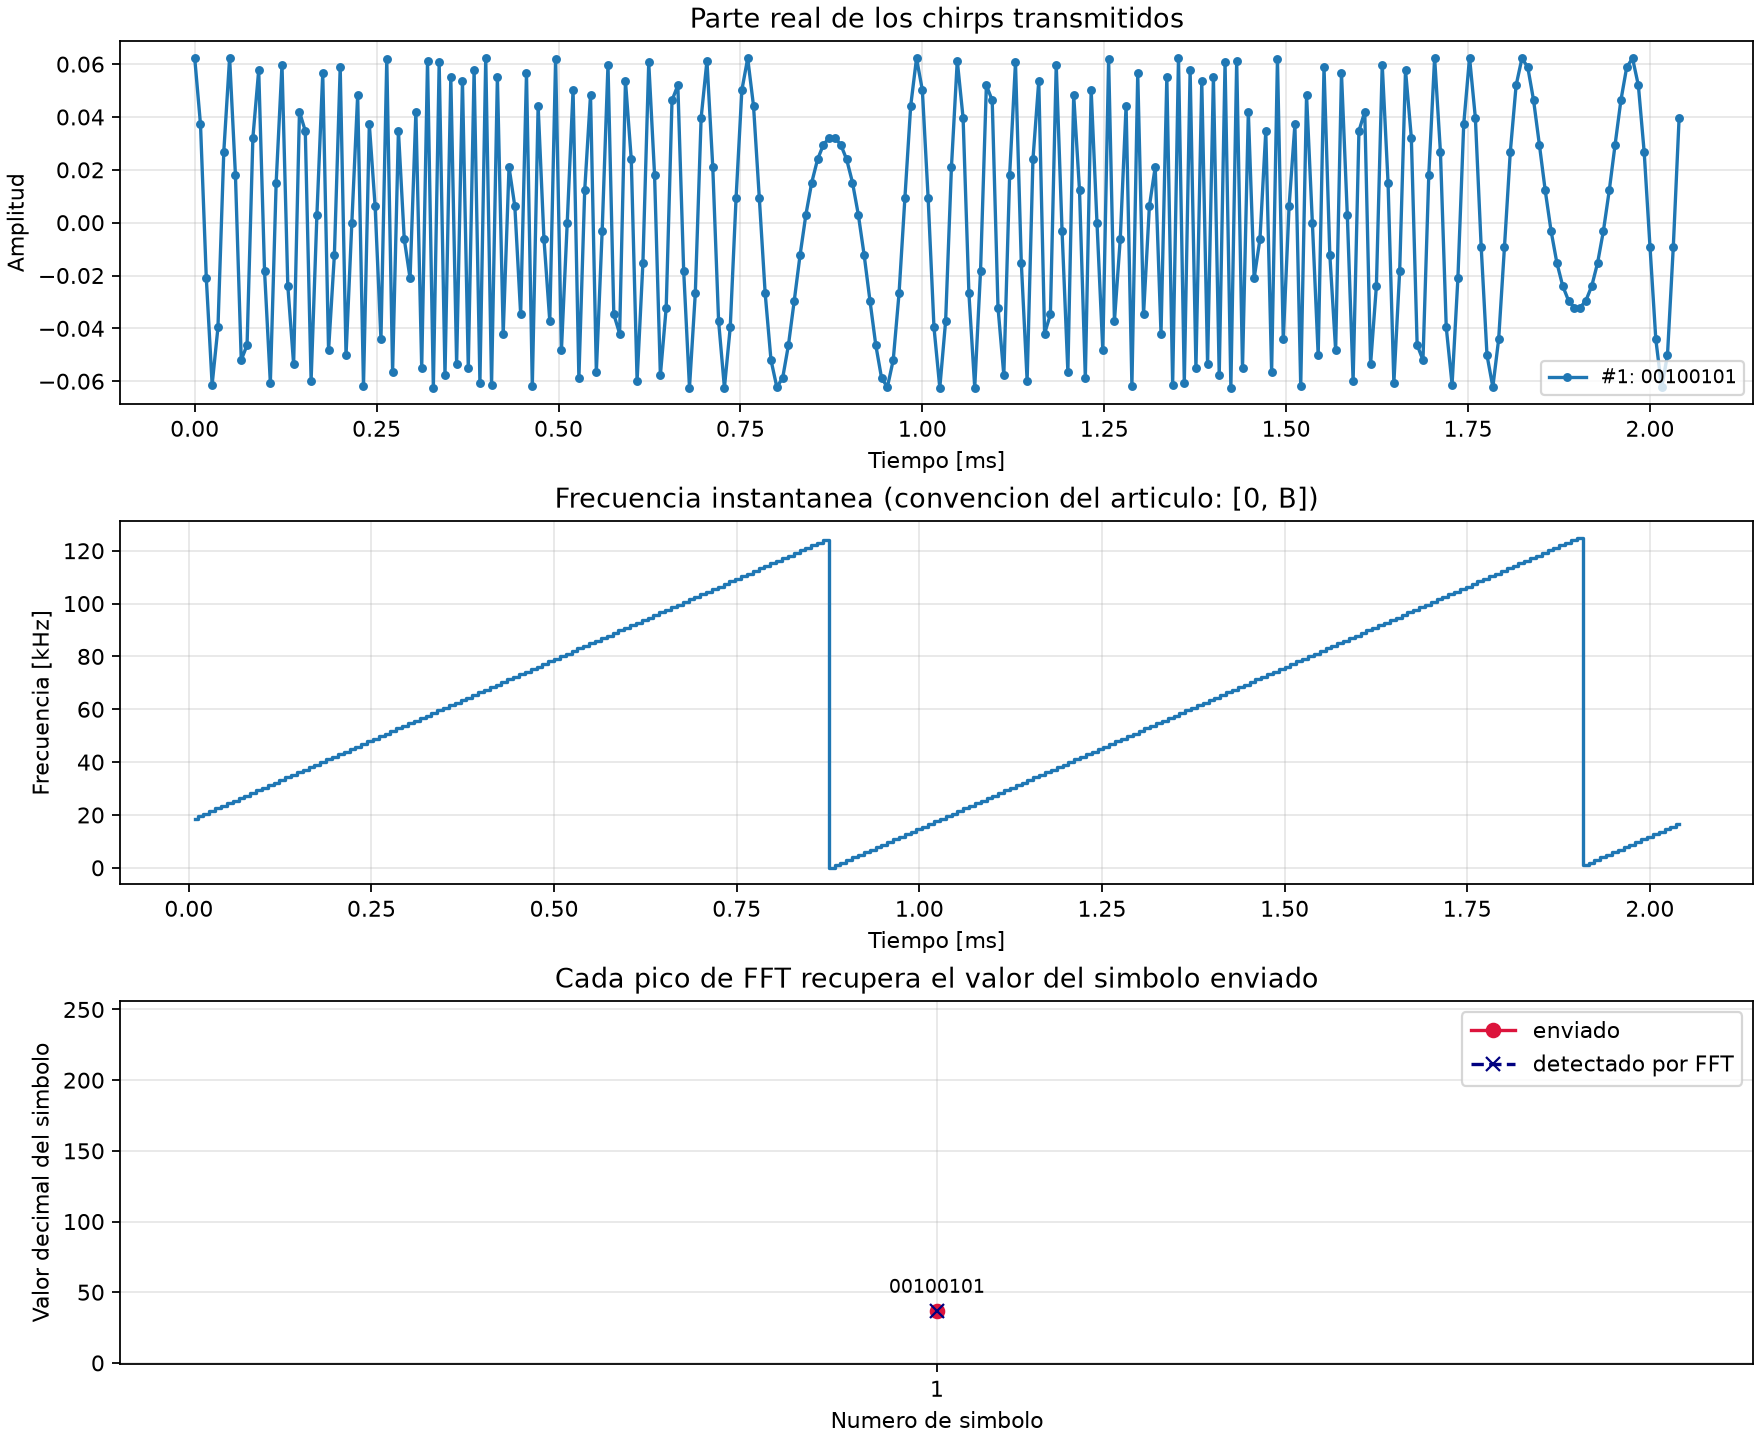
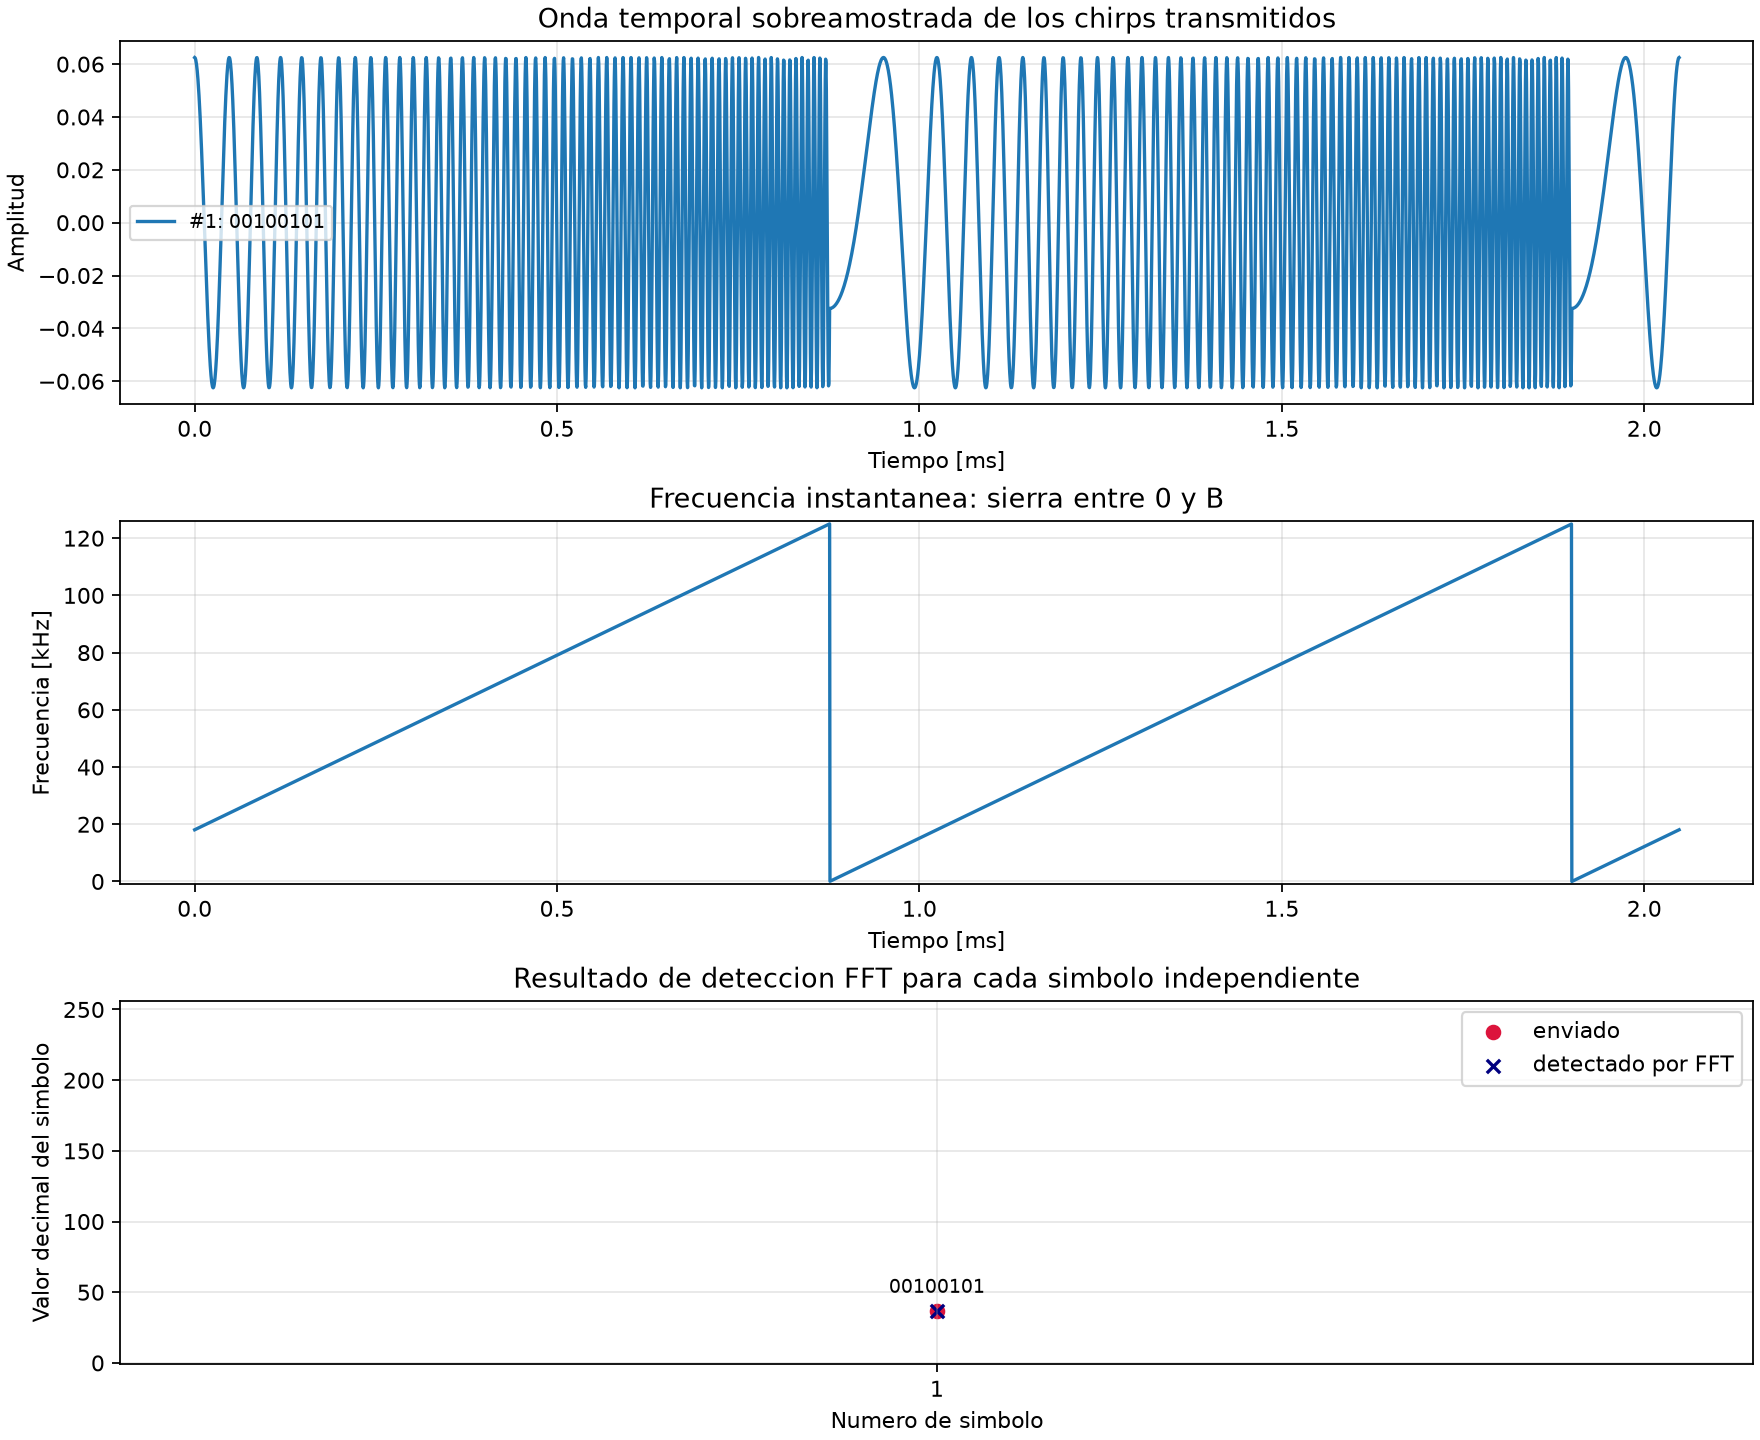
tp1: onda en tiempo sigue frecuencia en forma de sierra

diff --git a/simulacion_lora_chirp.py b/simulacion_lora_chirp.py
@@ -12,6 +12,7 @@ import numpy as np
 
 B = 125_000  # ancho de banda [Hz]
 MAX_SIMBOLOS = 5
+MUESTRAS_POR_MUESTRA = 16  # solo para dibujar suavemente la onda temporal
 
 
 def validar_simbolos(simbolos):
@@ -29,69 +30,91 @@ def validar_simbolos(simbolos):
     return sf
 
 
+def fase_sierra(tiempo, valor, N):
+    """Fase continua cuya derivada es la sierra de frecuencia del chirp."""
+    # En un simbolo Ts=N/B, 2*B*Ts=2*N: la sierra recorre dos veces los N bins.
+    indice = valor + 2 * B * tiempo
+    ciclos_completos = np.floor(indice / N)
+    resto = np.mod(indice, N)
+    area_de_sierra = (ciclos_completos * N**2 + resto**2) / 2
+    return (area_de_sierra - valor**2 / 2) / (2 * N)
+
+
+def modular_simbolo(valor, k, N):
+    """Genera las muestras LoRa y una vista temporal sobreamostrada de la sierra."""
+    # Ecuacion (3) del articulo: forma discreta usada por el modulador y la FFT.
+    fase_discreta = ((valor + k) % N) * k / N
+    chirp = np.exp(1j * 2 * np.pi * fase_discreta) / np.sqrt(N)
+
+    Ts = N / B
+    tiempo_vista = np.linspace(0, Ts, N * MUESTRAS_POR_MUESTRA + 1)
+    # La pendiente 2*B/N viene de Delta(fase)=(valor+2*k+1)/N entre muestras.
+    frecuencia_vista = np.mod(valor + 2 * B * tiempo_vista, N) * B / N
+    onda_vista = np.cos(2 * np.pi * fase_sierra(tiempo_vista, valor, N)) / np.sqrt(N)
+    return chirp, tiempo_vista, onda_vista, frecuencia_vista
+
+
 def simular_lora(simbolos):
     """Modula y detecta una lista de 1 a 5 simbolos binarios de igual longitud."""
     sf = validar_simbolos(simbolos)
     N = 2**sf
-    fs = B  # una muestra cada T = 1/B, como en el articulo
     Ts = N / B
-    k = np.arange(N) # {1, 2, ..., 255}
+    k = np.arange(N)
     downchirp = np.exp(-1j * 2 * np.pi * k**2 / N)
 
     valores_enviados = [int(bits, 2) for bits in simbolos]
     valores_estimados = []
     chirps = []
+    vistas = []
 
     for valor in valores_enviados:
-        # Ecuacion (2): c[k] = 1/sqrt(N) exp(j 2pi ((s+k) mod N) k / N).
-        chirp = np.exp(1j * 2 * np.pi * ((valor + k) % N) * k / N) / np.sqrt(N)
+        chirp, tiempo_vista, onda_vista, frecuencia_vista = modular_simbolo(valor, k, N)
         chirps.append(chirp)
+        vistas.append((tiempo_vista, onda_vista, frecuencia_vista))
 
         # Ecuacion (16): dechirp y FFT. El bin del maximo es el simbolo recibido.
         espectro = np.abs(np.fft.fft(chirp * downchirp))
         valores_estimados.append(int(np.argmax(espectro)))
 
     assert valores_estimados == valores_enviados
-    _graficar(chirps, simbolos, valores_enviados, valores_estimados, k, fs, Ts, N)
+    _graficar(vistas, simbolos, valores_enviados, valores_estimados, Ts, N)
     return valores_estimados
 
 
-def _graficar(chirps, simbolos, enviados, estimados, k, fs, Ts, N):
+def _graficar(vistas, simbolos, enviados, estimados, Ts, N):
     fig, axes = plt.subplots(3, 1, figsize=(11, 9), constrained_layout=True)
 
-    for indice, (chirp, bits) in enumerate(zip(chirps, simbolos)):
-        tiempo = indice * Ts + k / fs
+    for indice, ((tiempo, onda, frecuencia), bits) in enumerate(zip(vistas, simbolos)):
+        tiempo = indice * Ts + tiempo
         etiqueta = f"#{indice + 1}: {bits}"
-        axes[0].plot(tiempo * 1e3, chirp.real, marker=".", label=etiqueta)
+        axes[0].plot(tiempo * 1e3, onda, label=etiqueta)
+        axes[1].plot(tiempo * 1e3, frecuencia / 1e3, label=etiqueta)
 
-        # El articulo representa frecuencias en [0, B], no en [-B/2, B/2].
-        frecuencia = np.mod(np.angle(chirp[1:] * np.conj(chirp[:-1])), 2 * np.pi)
-        frecuencia *= fs / (2 * np.pi)
-        axes[1].step(tiempo[1:] * 1e3, frecuencia / 1e3, where="mid", label=etiqueta)
-
-    limites_ms = np.arange(len(chirps) + 1) * Ts * 1e3
+    limites_ms = np.arange(len(vistas) + 1) * Ts * 1e3
     for limite in limites_ms[1:-1]:
         axes[0].axvline(limite, color="gray", linestyle="--", alpha=0.6)
         axes[1].axvline(limite, color="gray", linestyle="--", alpha=0.6)
 
-    axes[0].set(title="Parte real de los chirps transmitidos",
+    axes[0].set(title="Onda temporal sobreamostrada de los chirps transmitidos",
                 xlabel="Tiempo [ms]", ylabel="Amplitud")
     axes[0].grid(True, alpha=0.3)
-    axes[0].legend(ncol=min(len(chirps), 3), fontsize="small")
+    axes[0].legend(ncol=min(len(vistas), 3), fontsize="small")
 
-    axes[1].set(title="Frecuencia instantanea (convencion del articulo: [0, B])",
+    axes[1].set(title="Frecuencia instantanea: sierra entre 0 y B",
                 xlabel="Tiempo [ms]", ylabel="Frecuencia [kHz]")
+    axes[1].set_ylim(-1, B / 1e3 + 1)
     axes[1].grid(True, alpha=0.3)
 
-    posiciones = np.arange(1, len(chirps) + 1)
-    axes[2].plot(posiciones, enviados, "o-", color="crimson", label="enviado")
-    axes[2].plot(posiciones, estimados, "x--", color="navy", label="detectado por FFT")
+    posiciones = np.arange(1, len(vistas) + 1)
+    # Cada punto es un simbolo independiente: no se dibujan lineas entre ellos.
+    axes[2].scatter(posiciones, enviados, color="crimson", marker="o", label="enviado")
+    axes[2].scatter(posiciones, estimados, color="navy", marker="x", label="detectado por FFT")
     for posicion, bits, valor in zip(posiciones, simbolos, enviados):
         axes[2].annotate(bits, (posicion, valor), xytext=(0, 8),
                          textcoords="offset points", ha="center", fontsize="small")
-    axes[2].set(title="Cada pico de FFT recupera el valor del simbolo enviado",
+    axes[2].set(title="Resultado de deteccion FFT para cada simbolo independiente",
                 xlabel="Numero de simbolo", ylabel="Valor decimal del simbolo",
-                xlim=(0.7, len(chirps) + 0.3), ylim=(-1, N))
+                xlim=(0.7, len(vistas) + 0.3), ylim=(-1, N))
     axes[2].set_xticks(posiciones)
     axes[2].grid(True, alpha=0.3)
     axes[2].legend()
@@ -106,5 +129,5 @@ def _graficar(chirps, simbolos, enviados, estimados, k, fs, Ts, N):
 
 if __name__ == "__main__":
     simular_lora(["00100101"])
-    simular_lora(["00100101", "11110000"])
+    # simular_lora(["00100101", "11110000"])
     # simular_lora(["00100101", "11110000", "00000011"])
